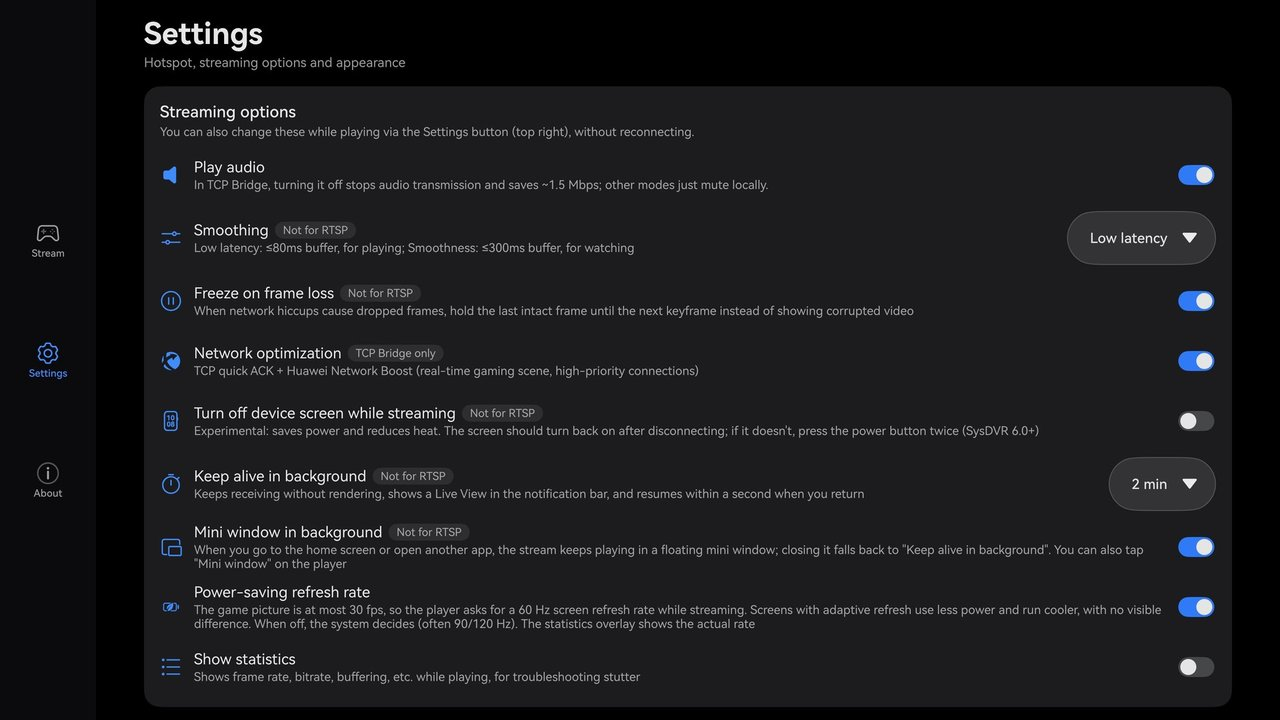
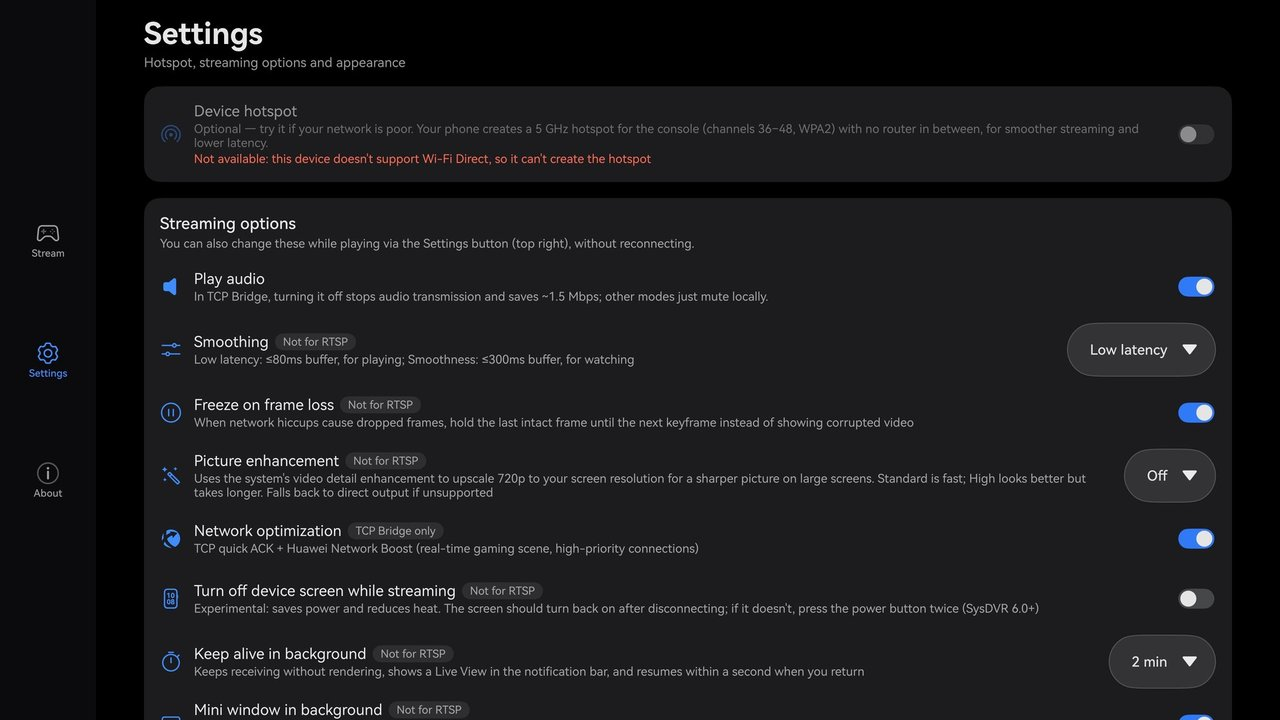
README: retake the settings screenshots for 1.3.2
The settings page now lists unsupported features greyed out with the
reason. The emulators have no Wi-Fi Direct (and only the TV emulator
declares the video processing engine), so the new screenshots show the
hotspot, and on phone, tablet and PC also picture enhancement, in that
state; a note under the table explains why.

diff --git a/README.md b/README.md
@@ -33,6 +33,8 @@ It works with the official SysDVR sysmodule; nothing needs to change on the Swit
   </tr>
 </table>
 
+<sub>Screenshots are taken on the DevEco Studio emulators. They have no Wi-Fi Direct (and the phone, tablet and PC emulators have no video processing engine), so the device hotspot and picture enhancement appear greyed out with the reason, as they do on any device that lacks the feature.</sub>
+
 | Mode | Transport | Playback pipeline | Notes |
 |---|---|---|---|
 | TCP Bridge (recommended) | Wi-Fi: TCP 9911 video + 9922 audio, UDP 19999 discovery | Own pipeline: low-latency hardware decoding + OHAudio | NAL replay, smoothing, network optimization, background streaming |

diff --git a/README.zh-CN.md b/README.zh-CN.md
@@ -33,6 +33,8 @@ NSDVR 在 HarmonyOS NEXT 手机、平板、PC、折叠屏和电视上接收 Nint
   </tr>
 </table>
 
+<sub>截图拍自 DevEco Studio 模拟器。模拟器不支持 Wi-Fi 直连（手机、平板、PC 模拟器也没有视频处理引擎），所以专用热点和画质增强显示为置灰并写明原因；任何不支持这些功能的设备都会这样显示。</sub>
+
 | 模式 | 传输 | 播放管线 | 说明 |
 |---|---|---|---|
 | TCP Bridge（推荐） | Wi-Fi：TCP 9911 视频 + 9922 音频，UDP 19999 自动发现 | 自研：硬解低延迟 + OHAudio | 支持 NAL 重放、平滑模式、网络优化、后台保持 |
